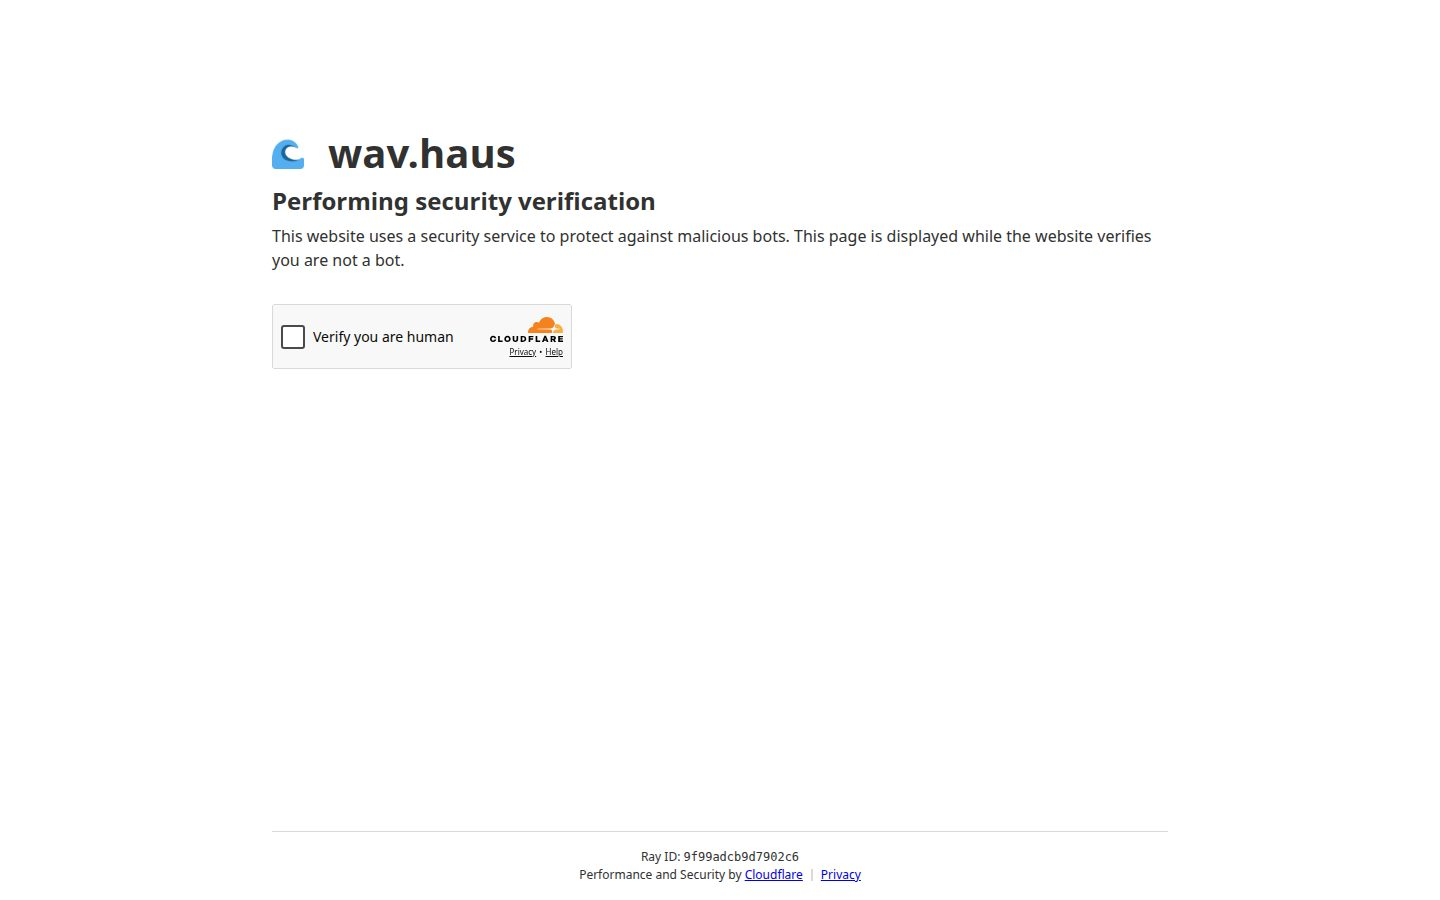
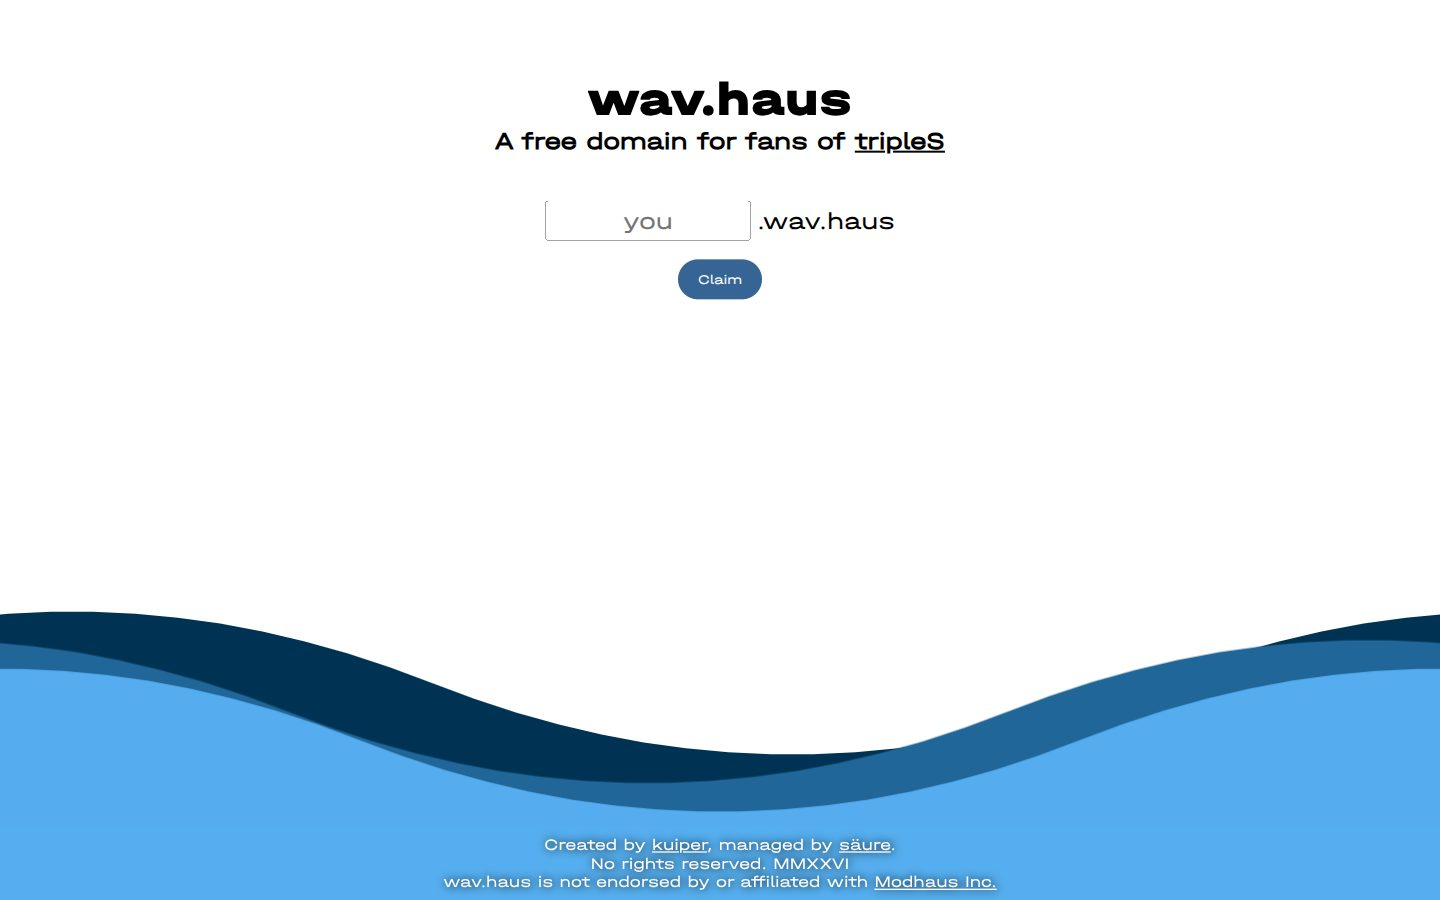
feat: add SHION ARCHIVE listing and refresh wav.haus card

diff --git a/src/lib/i18n.js b/src/lib/i18n.js
@@ -14,13 +14,13 @@ export const ui = {
       titleBefore: '',
       titleEm: 'fan-made',
       titleAfter: 'tripleS projects',
-      date: 'November 13, 2026',
-      updateTitle: 'kosmoSSS added',
+      date: 'November 14, 2026',
+      updateTitle: 'SHION ARCHIVE added',
       updateBody:
-        'Follow tripleS Objekt mints, trades, and spins as they happen in kosmoSSS, with member rankings, trends, and records.',
+        'Browse photos, videos, and Objekts of Park ShiOn in SHION ARCHIVE, or pick a favorite card in its Objekt World Cup.',
       today: 'today',
       status: 'last updated',
-      statusValue: 'November 13, 2026',
+      statusValue: 'November 14, 2026',
       directoryCount: 'sites in directory'
     },
     toolbar: {
@@ -111,13 +111,13 @@ export const ui = {
       titleBefore: '',
       titleEm: 'tripleS',
       titleAfter: '팬 프로젝트 모음',
-      date: '2026년 11월 13일',
-      updateTitle: 'kosmoSSS 추가',
+      date: '2026년 11월 14일',
+      updateTitle: 'SHION ARCHIVE 추가',
       updateBody:
-        'tripleS 오브젝트의 민팅, 트레이드, 스핀을 실시간으로 보고 멤버 순위와 트렌드, 기록까지 확인하는 kosmoSSS를 추가했습니다.',
+        '박시온의 사진과 영상, 오브젝트를 둘러보고 오브젝트 월드컵도 즐길 수 있는 SHION ARCHIVE를 추가했습니다.',
       today: '오늘',
       status: '최근 업데이트',
-      statusValue: '2026년 11월 13일',
+      statusValue: '2026년 11월 14일',
       directoryCount: '등록 사이트'
     },
     toolbar: {
@@ -257,10 +257,10 @@ export const siteCopy = {
       badges: ['일정', '아카이브']
     },
     wavhaus: {
-      tagline: '팬 프로젝트용 서브도메인',
+      tagline: '팬 프로젝트용 무료 서브도메인',
       description:
-        'tripleS 팬 프로젝트에 쓸 wav.haus 서브도메인을 제공합니다.',
-      badges: ['서브도메인', '호스팅']
+        'tripleS 팬 프로젝트에 쓸 .wav.haus 서브도메인을 무료로 받을 수 있습니다.',
+      badges: ['서브도메인', '무료']
     },
     objektify: {
       tagline: '오브젝트 스타일 카드 제작',
@@ -471,6 +471,12 @@ export const siteCopy = {
       description:
         'tripleS 오브젝트의 민팅, 트레이드, 스핀 활동을 실시간으로 볼 수 있습니다. 24시간 활동량과 멤버 순위, 트렌드, 기록을 확인하고 오브젝트와 컬렉션 출시 캘린더도 둘러볼 수 있습니다.',
       badges: ['실시간 활동', '트렌드', '기록']
+    },
+    shionarchive: {
+      tagline: '박시온 팬 아카이브',
+      description:
+        'tripleS 박시온의 사진과 영상을 모아둔 팬 아카이브입니다. 프로필과 오브젝트를 둘러보고, 오브젝트 월드컵에서 마음에 드는 카드를 골라볼 수도 있습니다.',
+      badges: ['사진·영상', '오브젝트', '월드컵']
     }
   }
 };
@@ -498,7 +504,8 @@ export const siteSearchAliases = {
   'triples-wav': ['tripleS WAV', '트리플에스 웨이브', '트리플에스웨이브', '공식 링크', '링크 모음', 'link hub'],
   fifty: ['wav fifty', 'wav-fifty', '피프티', '웨이브 피프티', '웨이브피프티', '3D viewer', '3D 뷰어', '비주얼 뷰어'],
   ssslot: ['sss slot', '트리플에스 슬롯', '슬롯', '슬롯머신', 'slot machine', '수집 게임'],
-  kosmosss: ['kosmo SSS', 'kosmo', '코스모SSS', '코스모 SSS', '민팅', 'mint', '실시간 활동', 'live activity']
+  kosmosss: ['kosmo SSS', 'kosmo', '코스모SSS', '코스모 SSS', '민팅', 'mint', '실시간 활동', 'live activity'],
+  shionarchive: ['시온 아카이브', '시온아카이브', '박시온', 'Park ShiOn', 'ShiOn', 'S20', 'bbangshion', '월드컵', 'world cup']
 };
 
 export function isSupportedLang(value) {

diff --git a/src/lib/data.js b/src/lib/data.js
@@ -32,9 +32,9 @@ export const sites = [
     url: "https://wav.haus/",
     category: "hub",
     addedAt: "2026-05-10T22:12:02+09:00",
-    tagline: "Fan project subdomains",
-    description: "Provides wav.haus subdomains for fan-made tripleS projects.",
-    badges: ["subdomains", "hosting"],
+    tagline: "Free subdomains for fan projects",
+    description: "Get a free .wav.haus subdomain for your tripleS fan project.",
+    badges: ["subdomains", "free"],
     accent: "blue",
   },
   {
@@ -459,6 +459,18 @@ export const sites = [
     description: "Follow tripleS Objekt mints, trades, and spins as they happen. Check 24-hour activity, member rankings, trends, and records, or browse Objekts and the collection release calendar.",
     badges: ["live activity", "trends", "records"],
     accent: "violet",
+  },
+  {
+    id: "shionarchive",
+    name: "SHION ARCHIVE",
+    domain: "shionarchive.wav.haus",
+    url: "https://shionarchive.wav.haus/",
+    category: "hub",
+    addedAt: "2026-11-14T22:40:00+09:00",
+    tagline: "Park ShiOn fan archive",
+    description: "A fan archive of tripleS member Park ShiOn's photos and videos. Browse her profile and Objekts, or pick a favorite card in the Objekt World Cup.",
+    badges: ["photos & videos", "Objekts", "world cup"],
+    accent: "blue",
   },
 ];
 
